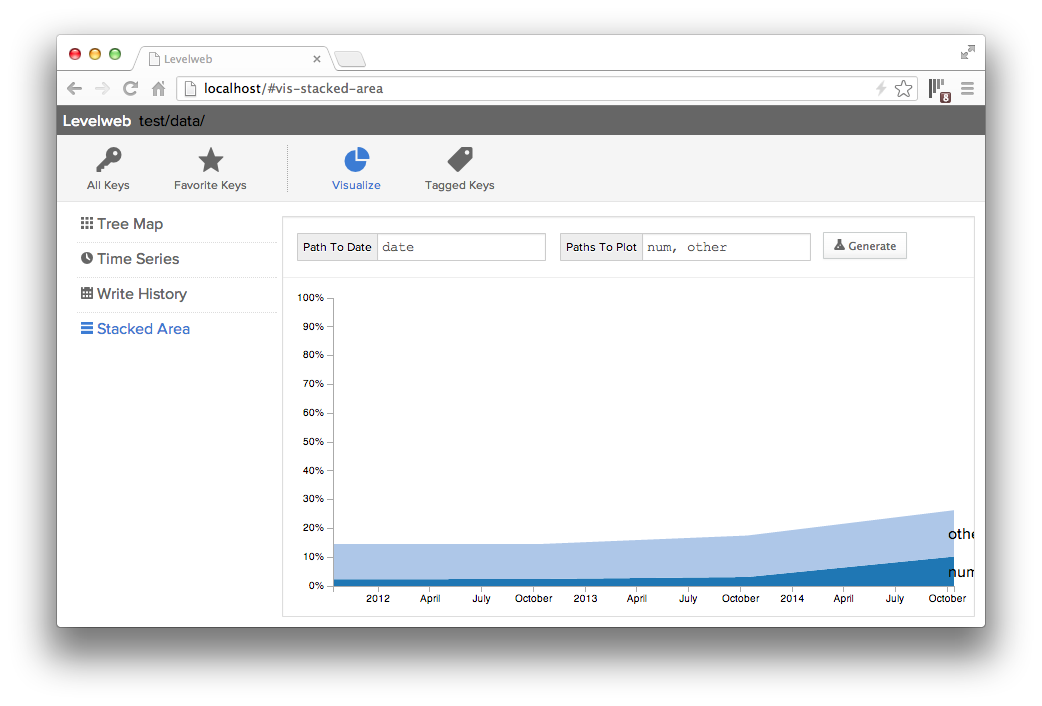
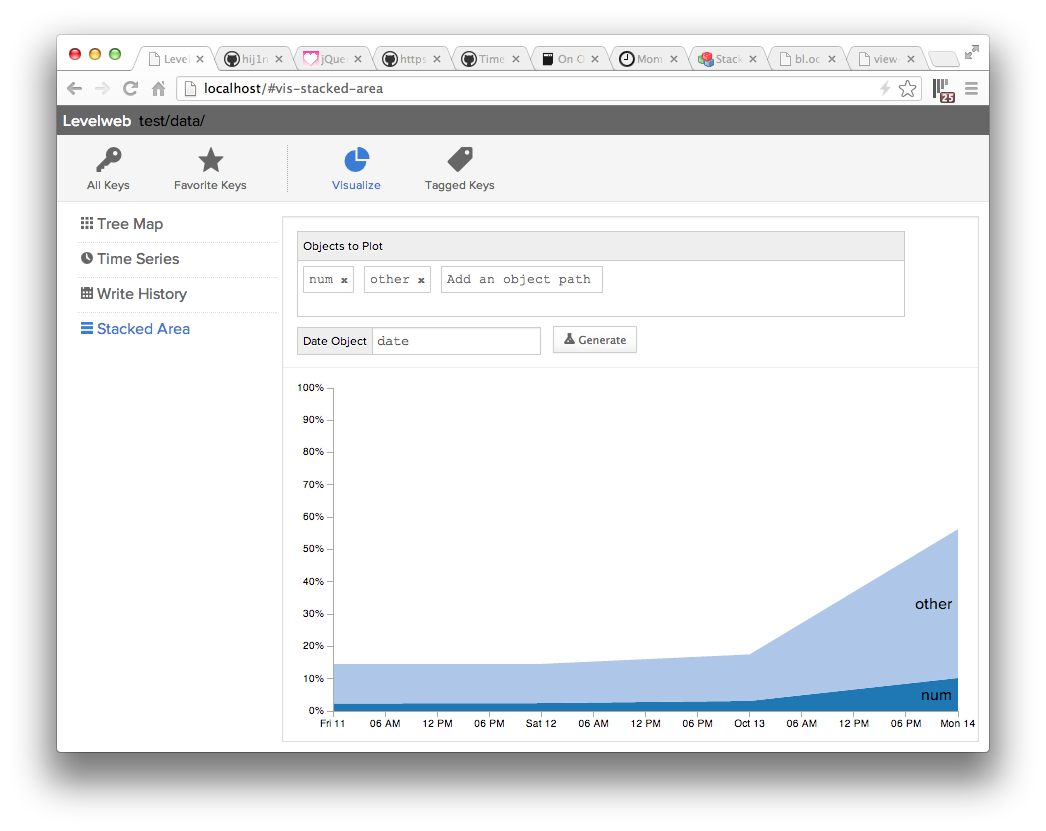
better ui for stacked area chart

diff --git a/public/index.html b/public/index.html
@@ -11,6 +11,7 @@
 
     <link rel="stylesheet" href="js/codemirror-3.1/lib/codemirror.css">
     <link rel="stylesheet" href="js/codemirror-3.1/addon/lint/lint.css">
+    <link rel="stylesheet" href="css/jquery.tagsinput.css" />
     <link href="/css/index.css" rel="stylesheet">
 
   </head>
@@ -92,15 +93,15 @@
         <div id="key-management-controls">
           <button class="regular-button" id="delete-keys">
             <span class="ss-icon">trash</span>
-            Delete selected
+            Delete <span class="selected-key-count"></span>
           </button>
           <button class="regular-button" id="addto-tags">
             <span class="ss-icon">tag</span>
-            Tag selected
+            Tag <span class="selected-key-count"></span>
           </button>
           <button class="regular-button" id="addto-favs">
             <span class="ss-icon">favorite</span>
-            Favorite selected
+            Favorite <span class="selected-key-count"></span>
           </button>
         </div>
 
@@ -176,14 +177,13 @@
 
           <div id="vis-stacked-area" class="visualization">
             <div class="controls">
+              <div class="input-prepend-top">
+                <span class="add-on">Objects to Plot</span>
+                <input id="pathsToValues" />
+              </div>             
               <div class="input-prepend">
-                <span class="add-on">Path To Date</span>
+                <span class="add-on">Date Object</span>
                 <input id="pathToDate" class="control" placeholder="foo.bar.date" type="text">
-              </div>
-
-              <div class="input-prepend">
-                <span class="add-on">Paths To Plot</span>
-                <input id="pathsToValues" class="control" placeholder="foo.bar, bazz" type="text">
               </div>
 
               <button class="regular-button" id="buildStackedAreaChart">
@@ -191,6 +191,7 @@
                 Generate
               </button>
             </div>
+
 
             <div class="container">
             </div>
@@ -209,16 +210,18 @@
 
     <script src="js/codemirror-3.1/lib/codemirror.js"></script>
     <script src="js/codemirror-3.1/mode/javascript/javascript.js"></script>
-    <script src="http://ajax.aspnetcdn.com/ajax/jshint/r07/jshint.js"></script>
-    <script src="https://raw.github.com/zaach/jsonlint/79b553fb65c192add9066da64043458981b3972b/lib/jsonlint.js"></script>
+    <script src="js/jsonlint.js"></script>
     <script src="js/codemirror-3.1/addon/lint/lint.js"></script>
     <script src="js/codemirror-3.1/addon/lint/javascript-lint.js"></script>
     <script src="js/codemirror-3.1/addon/lint/json-lint.js"></script>
+
 
     <script src="/js/d3.v3.js"></script>
     <script src="/js/d3.hexbin.js"></script>
     <script src="/js/cubism.v1.js"></script>
     <script src="/js/websocket.min.js"></script>
+
+    <script src="js/jquery.tagsinput.min.js"></script>  
 
     <script src="/js/index.js"></script>
 

diff --git a/public/js/index.js b/public/js/index.js
@@ -8,6 +8,7 @@ websocket(function(socket) {
   var $limit = $('#limit');
   var $controls = $('.control');
   var $keyList = $('#keyList');
+  var $selectedKeyCount = $('.selected-key-count');
   var $veryLarge = $('#veryLarge');
   var $selectOne = $('#selectOne');
   var $selectKeys = $('#selectKeys');
@@ -243,17 +244,20 @@ websocket(function(socket) {
   //
   $keyList.on('change', function() {
 
-    var values = [];
+    var count = 0;;
 
     $keyList.find('option:selected').each(function(key){
-      values.push({ type: 'del', key: this.value });
+      count ++;
     });
 
-    if (values.length > 1) {
+    if (count > 1) {
 
+      $selectedKeyCount.text(count);
       $selectOne.show();
     }
     else {
+
+      $selectedKeyCount.text('');
 
       $selectOne.hide();
       currentSelection = this.value;
@@ -382,6 +386,15 @@ websocket(function(socket) {
 
   });
 
+  //
+  // stacked area chart stuff
+  //
+  $('#pathsToValues').tagsInput({
+    width: '',
+    height: '55px',
+    defaultText: 'Add an object path'
+  });
+
   $('#buildStackedAreaChart').on('click', function() {
 
     var value = {
@@ -460,7 +473,7 @@ websocket(function(socket) {
       var browser = svg.selectAll(".browser")
           .data(browsers)
         .enter().append("g")
-          .attr("class", "browser");
+          .attr("class", "areachart");
 
       browser.append("path")
           .attr("class", "area")
@@ -483,15 +496,7 @@ websocket(function(socket) {
           .attr("class", "y axis")
           .call(yAxis);
   }
-
-
-
-
-
-
-
-
-
+  
   //
   // tree-map stuff
   //

diff --git a/public/css/index.css b/public/css/index.css
@@ -250,10 +250,18 @@ header nav ul li:first-of-type {
   shape-rendering: crispEdges;
 }
 
+.areachart text {
+  text-anchor: end;
+}
+
 .hexagon {
   fill: none;
   stroke: #aaa;
   stroke-width: .5px;
+}
+
+#visualizations .right .visualization .container {
+  top: 150px;
 }
 
 /*
@@ -401,6 +409,26 @@ label {
   left: 8px;
   color: #99a1a7;
 }*/
+
+
+.input-prepend-top {
+  width: 90%;
+  display: inline-block;
+  margin: 4px;
+}
+
+.input-prepend-top .add-on {
+  display: block;
+  height: 18px;
+  padding: 5px 5px;
+  font-size: 12px;
+  font-weight: normal;
+  line-height: 20px;
+  text-shadow: 0 1px 0 #ffffff;
+  margin-bottom: -1px;
+  background-color: #eeeeee;
+  border: 1px solid #ccc;
+}
 
 .input-prepend {
   display: inline-block;

diff --git a/lib/index.js b/lib/index.js
@@ -3,6 +3,7 @@ var net = require('net');
 var url = require('url');
 var fs = require('fs');
 var path = require('path');
+var moment = require('moment');
 
 var levelup = require('levelup');
 var mime = require('mime');
@@ -298,7 +299,8 @@ module.exports = function(opts) {
               .createReadStream()
               .on('data', function(data) {
 
-                var date = getValue(pathToDate, data.value);
+                var date = moment(getValue(pathToDate, data.value))
+                  .format("YY-MMM-DD");
 
                 pathsToValues.forEach(function(path) {
 
